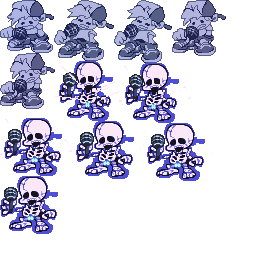
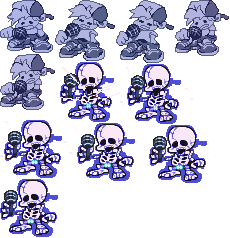
senpai mad and bf weeb fix

diff --git a/src/character/senpaim.c b/src/character/senpaim.c
@@ -1,0 +1,153 @@
+/*
+  This Source Code Form is subject to the terms of the Mozilla Public
+  License, v. 2.0. If a copy of the MPL was not distributed with this
+  file, You can obtain one at http://mozilla.org/MPL/2.0/.
+*/
+
+#include "senpaim.h"
+
+#include "../mem.h"
+#include "../archive.h"
+#include "../stage.h"
+#include "../main.h"
+
+//Dad character structure
+enum
+{
+	SenpaiM_ArcMain_SenpaiM0,
+	SenpaiM_ArcMain_SenpaiM1,
+	
+	SenpaiM_Arc_Max,
+};
+
+typedef struct
+{
+	//Character base structure
+	Character character;
+	
+	//Render data and state
+	IO_Data arc_main;
+	IO_Data arc_ptr[SenpaiM_Arc_Max];
+	
+	Gfx_Tex tex;
+	u8 frame, tex_id;
+} Char_SenpaiM;
+
+//Dad character definitions
+static const CharFrame char_senpaim_frame[] = {
+	{SenpaiM_ArcMain_SenpaiM0, {  0,   0,  66, 112}, { 32, 107}}, //0 idle 1
+	{SenpaiM_ArcMain_SenpaiM0, { 67,   0,  65, 112}, { 31, 107}}, //1 idle 2
+	{SenpaiM_ArcMain_SenpaiM0, {133,   0,  65, 113}, { 31, 108}}, //2 idle 3
+	{SenpaiM_ArcMain_SenpaiM0, {  0, 113,  67, 116}, { 31, 111}}, //3 idle 4
+	{SenpaiM_ArcMain_SenpaiM0, { 71, 113,  67, 115}, { 31, 110}}, //4 idle 5
+	
+	{SenpaiM_ArcMain_SenpaiM1, {  0,   0,  59, 115}, { 33, 110}}, //5 left 1
+	{SenpaiM_ArcMain_SenpaiM1, { 60,   0,  61, 115}, { 35, 110}}, //6 left 2
+	
+	{SenpaiM_ArcMain_SenpaiM1, {122,   0,  63, 107}, { 31, 102}}, //7 down 1
+	{SenpaiM_ArcMain_SenpaiM1, {186,   1,  62, 108}, { 30, 103}}, //8 down 2
+	
+	{SenpaiM_ArcMain_SenpaiM1, {  0, 116,  64, 122}, { 31, 115}}, //9 up 1
+	{SenpaiM_ArcMain_SenpaiM1, { 65, 116,  66, 122}, { 32, 115}}, //10 up 2
+	
+	{SenpaiM_ArcMain_SenpaiM1, {132, 110,  65, 114}, { 27, 109}}, //11 right 1
+	{SenpaiM_ArcMain_SenpaiM0, {139, 114,  64, 114}, { 28, 109}}, //12 right 2
+};
+
+static const Animation char_senpaim_anim[CharAnim_Max] = {
+	{2, (const u8[]){ 0,  1,  2,  3,  4,  0,  1,  2,  3,  4, ASCR_BACK, 1}}, //CharAnim_Idle
+	{2, (const u8[]){ 5,  6, ASCR_BACK, 1}},             //CharAnim_Left
+	{0, (const u8[]){ASCR_CHGANI, CharAnim_Idle}},       //CharAnim_LeftAlt
+	{2, (const u8[]){ 7,  8, ASCR_BACK, 1}},             //CharAnim_Down
+	{0, (const u8[]){ASCR_CHGANI, CharAnim_Idle}},       //CharAnim_DownAlt
+	{2, (const u8[]){ 9, 10, ASCR_BACK, 1}},             //CharAnim_Up
+	{0, (const u8[]){ASCR_CHGANI, CharAnim_Idle}},       //CharAnim_UpAlt
+	{2, (const u8[]){11, 12, ASCR_BACK, 1}},             //CharAnim_Right
+	{0, (const u8[]){ASCR_CHGANI, CharAnim_Idle}},       //CharAnim_RightAlt
+};
+
+//Dad character functions
+void Char_SenpaiM_SetFrame(void *user, u8 frame)
+{
+	Char_SenpaiM *this = (Char_SenpaiM*)user;
+	
+	//Check if this is a new frame
+	if (frame != this->frame)
+	{
+		//Check if new art shall be loaded
+		const CharFrame *cframe = &char_senpaim_frame[this->frame = frame];
+		if (cframe->tex != this->tex_id)
+			Gfx_LoadTex(&this->tex, this->arc_ptr[this->tex_id = cframe->tex], 0);
+	}
+}
+
+void Char_SenpaiM_Tick(Character *character)
+{
+	Char_SenpaiM *this = (Char_SenpaiM*)character;
+	
+	//Perform idle dance
+	Character_PerformIdle(character);
+	
+	//Animate and draw
+	Animatable_Animate(&character->animatable, (void*)this, Char_SenpaiM_SetFrame);
+	Character_Draw(character, &this->tex, &char_senpaim_frame[this->frame]);
+}
+
+void Char_SenpaiM_SetAnim(Character *character, u8 anim)
+{
+	//Set animation
+	Animatable_SetAnim(&character->animatable, anim);
+	Character_CheckStartSing(character);
+}
+
+void Char_SenpaiM_Free(Character *character)
+{
+	Char_SenpaiM *this = (Char_SenpaiM*)character;
+	
+	//Free art
+	Mem_Free(this->arc_main);
+}
+
+Character *Char_SenpaiM_New(fixed_t x, fixed_t y)
+{
+	//Allocate senpaim object
+	Char_SenpaiM *this = Mem_Alloc(sizeof(Char_SenpaiM));
+	if (this == NULL)
+	{
+		sprintf(error_msg, "[Char_SenpaiM_New] Failed to allocate senpaim object");
+		ErrorLock();
+		return NULL;
+	}
+	
+	//Initialize character
+	this->character.tick = Char_SenpaiM_Tick;
+	this->character.set_anim = Char_SenpaiM_SetAnim;
+	this->character.free = Char_SenpaiM_Free;
+	
+	Animatable_Init(&this->character.animatable, char_senpaim_anim);
+	Character_Init((Character*)this, x, y);
+	
+	//Set character stage information
+	this->character.health_i = 8;
+	
+	this->character.focus_x = FIXED_DEC(32,1);
+	this->character.focus_y = FIXED_DEC(-58,1);
+	this->character.focus_zoom = FIXED_DEC(2,1);
+	
+	//Load art
+	this->arc_main = IO_Read("\\CHAR\\SENPAIM.ARC;1");
+	
+	const char **pathp = (const char *[]){
+		"senpai0.tim", //SenpaiM_ArcMain_SenpaiM0
+		"senpai1.tim", //SenpaiM_ArcMain_SenpaiM1
+		NULL
+	};
+	IO_Data *arc_ptr = this->arc_ptr;
+	for (; *pathp != NULL; pathp++)
+		*arc_ptr++ = Archive_Find(this->arc_main, *pathp);
+	
+	//Initialize render state
+	this->tex_id = this->frame = 0xFF;
+	
+	return (Character*)this;
+}

diff --git a/src/character/senpai.c b/src/character/senpai.c
@@ -36,26 +36,26 @@ typedef struct
 //Dad character definitions
 static const CharFrame char_senpai_frame[] = {
 	{Senpai_ArcMain_Senpai0, {  0,   0,  66, 112}, { 32, 107}}, //0 idle 1
-	{Senpai_ArcMain_Senpai0, { 66,   0,  65, 112}, { 31, 107}}, //1 idle 2
-	{Senpai_ArcMain_Senpai0, {131,   0,  65, 113}, { 31, 108}}, //2 idle 3
-	{Senpai_ArcMain_Senpai0, {  0, 112,  67, 116}, { 31, 111}}, //3 idle 4
-	{Senpai_ArcMain_Senpai0, { 71, 112,  67, 115}, { 31, 110}}, //4 idle 5
+	{Senpai_ArcMain_Senpai0, { 67,   0,  65, 112}, { 31, 107}}, //1 idle 2
+	{Senpai_ArcMain_Senpai0, {133,   0,  65, 113}, { 31, 108}}, //2 idle 3
+	{Senpai_ArcMain_Senpai0, {  0, 113,  67, 116}, { 31, 111}}, //3 idle 4
+	{Senpai_ArcMain_Senpai0, { 71, 113,  67, 115}, { 31, 110}}, //4 idle 5
 	
 	{Senpai_ArcMain_Senpai1, {  0,   0,  59, 115}, { 33, 110}}, //5 left 1
-	{Senpai_ArcMain_Senpai1, { 59,   0,  61, 115}, { 35, 110}}, //6 left 2
+	{Senpai_ArcMain_Senpai1, { 60,   0,  61, 115}, { 35, 110}}, //6 left 2
 	
-	{Senpai_ArcMain_Senpai1, {120,   0,  63, 107}, { 31, 102}}, //7 down 1
-	{Senpai_ArcMain_Senpai1, {183,   1,  62, 108}, { 30, 103}}, //8 down 2
+	{Senpai_ArcMain_Senpai1, {122,   0,  63, 107}, { 31, 102}}, //7 down 1
+	{Senpai_ArcMain_Senpai1, {186,   1,  62, 108}, { 30, 103}}, //8 down 2
 	
-	{Senpai_ArcMain_Senpai1, {  0, 115,  64, 122}, { 31, 115}}, //9 up 1
-	{Senpai_ArcMain_Senpai1, { 64, 115,  66, 122}, { 32, 115}}, //10 up 2
+	{Senpai_ArcMain_Senpai1, {  0, 116,  64, 122}, { 31, 115}}, //9 up 1
+	{Senpai_ArcMain_Senpai1, { 65, 116,  66, 122}, { 32, 115}}, //10 up 2
 	
-	{Senpai_ArcMain_Senpai1, {130, 109,  65, 114}, { 28, 109}}, //11 right 1
-	{Senpai_ArcMain_Senpai0, {192, 140,  64, 114}, { 27, 109}}, //12 right 2
+	{Senpai_ArcMain_Senpai1, {132, 110,  65, 114}, { 27, 109}}, //11 right 1
+	{Senpai_ArcMain_Senpai0, {139, 114,  64, 114}, { 28, 109}}, //12 right 2
 };
 
 static const Animation char_senpai_anim[CharAnim_Max] = {
-	{2, (const u8[]){ 0,  1,  2,  3,  4, ASCR_BACK, 1}}, //CharAnim_Idle
+	{2, (const u8[]){ 0,  1,  2,  3,  4,  0,  1,  2,  3,  4, ASCR_BACK, 1}}, //CharAnim_Idle
 	{2, (const u8[]){ 5,  6, ASCR_BACK, 1}},             //CharAnim_Left
 	{0, (const u8[]){ASCR_CHGANI, CharAnim_Idle}},       //CharAnim_LeftAlt
 	{2, (const u8[]){ 7,  8, ASCR_BACK, 1}},             //CharAnim_Down
@@ -86,7 +86,19 @@ void Char_Senpai_Tick(Character *character)
 	Char_Senpai *this = (Char_Senpai*)character;
 	
 	//Perform idle dance
-	Character_PerformIdle(character);
+	if ((stage.flag & STAGE_FLAG_JUST_STEP) && (stage.song_step & 0x7) == 0)
+	{
+		Character_CheckEndSing(character);
+		if ((character->animatable.anim != CharAnim_Left &&
+		     character->animatable.anim != CharAnim_LeftAlt &&
+		     character->animatable.anim != CharAnim_Down &&
+		     character->animatable.anim != CharAnim_DownAlt &&
+		     character->animatable.anim != CharAnim_Up &&
+		     character->animatable.anim != CharAnim_UpAlt &&
+		     character->animatable.anim != CharAnim_Right &&
+		     character->animatable.anim != CharAnim_RightAlt))
+			character->set_anim(character, CharAnim_Idle);
+	}
 	
 	//Animate and draw
 	Animatable_Animate(&character->animatable, (void*)this, Char_Senpai_SetFrame);
@@ -96,8 +108,24 @@ void Char_Senpai_Tick(Character *character)
 void Char_Senpai_SetAnim(Character *character, u8 anim)
 {
 	//Set animation
+	u8 prev_anim = character->animatable.anim;
 	Animatable_SetAnim(&character->animatable, anim);
-	Character_CheckStartSing(character);
+	
+	//Update sing end if singing animation
+	if (character->animatable.anim == CharAnim_Left ||
+	    character->animatable.anim == CharAnim_LeftAlt ||
+	    character->animatable.anim == CharAnim_Down ||
+	    character->animatable.anim == CharAnim_DownAlt ||
+	    character->animatable.anim == CharAnim_Up ||
+	    character->animatable.anim == CharAnim_UpAlt ||
+	    character->animatable.anim == CharAnim_Right ||
+	    character->animatable.anim == CharAnim_RightAlt)
+	{
+		if (prev_anim != anim)
+			character->sing_end = stage.note_scroll + (FIXED_DEC(12,1) << 1); //2 steps
+		else
+			character->sing_end = stage.note_scroll + FIXED_DEC(12,1); //1 step
+	}
 }
 
 void Char_Senpai_Free(Character *character)

diff --git a/src/character/bfweeb.c b/src/character/bfweeb.c
@@ -74,22 +74,22 @@ typedef struct
 //Boyfriend Weeb player definitions
 static const CharFrame char_bfweeb_frame[] = {
 	{BFWeeb_ArcMain_Weeb0, {  0,   0,  60,  55}, { 35,  52}}, //0 idle 1
-	{BFWeeb_ArcMain_Weeb0, { 60,   0,  61,  56}, { 35,  53}}, //1 idle 2
-	{BFWeeb_ArcMain_Weeb0, {121,   0,  59,  58}, { 33,  55}}, //2 idle 3
-	{BFWeeb_ArcMain_Weeb0, {180,   0,  58,  59}, { 31,  56}}, //3 idle 4
-	{BFWeeb_ArcMain_Weeb0, {  0,  55,  58,  58}, { 32,  55}}, //4 idle 5
+	{BFWeeb_ArcMain_Weeb0, { 61,   0,  61,  56}, { 35,  53}}, //1 idle 2
+	{BFWeeb_ArcMain_Weeb0, {123,   0,  59,  58}, { 33,  55}}, //2 idle 3
+	{BFWeeb_ArcMain_Weeb0, {183,   0,  58,  59}, { 31,  56}}, //3 idle 4
+	{BFWeeb_ArcMain_Weeb0, {  0,  56,  58,  58}, { 32,  55}}, //4 idle 5
 	
-	{BFWeeb_ArcMain_Weeb0, { 58,  56,  54,  57}, { 34,  53}}, //5 left 1
-	{BFWeeb_ArcMain_Weeb0, {112,  58,  55,  57}, { 33,  53}}, //6 left 2
+	{BFWeeb_ArcMain_Weeb0, { 59,  57,  54,  57}, { 34,  53}}, //5 left 1
+	{BFWeeb_ArcMain_Weeb0, {114,  59,  55,  57}, { 33,  53}}, //6 left 2
 	
-	{BFWeeb_ArcMain_Weeb0, {167,  59,  55,  52}, { 31,  48}}, //7 down 1
-	{BFWeeb_ArcMain_Weeb0, {  0, 113,  54,  53}, { 31,  49}}, //8 down 2
+	{BFWeeb_ArcMain_Weeb0, {170,  60,  55,  52}, { 31,  48}}, //7 down 1
+	{BFWeeb_ArcMain_Weeb0, {  0, 115,  54,  53}, { 31,  49}}, //8 down 2
 	
-	{BFWeeb_ArcMain_Weeb0, { 54, 114,  57,  64}, { 26,  60}}, //9 up 1
-	{BFWeeb_ArcMain_Weeb0, {111, 115,  58,  63}, { 27,  59}}, //10 up 2
+	{BFWeeb_ArcMain_Weeb0, { 55, 116,  57,  64}, { 26,  60}}, //9 up 1
+	{BFWeeb_ArcMain_Weeb0, {113, 117,  58,  63}, { 27,  59}}, //10 up 2
 	
-	{BFWeeb_ArcMain_Weeb0, {169, 111,  57,  56}, { 22,  52}}, //11 right 1
-	{BFWeeb_ArcMain_Weeb0, {  0, 166,  55,  56}, { 22,  52}}, //12 right 2
+	{BFWeeb_ArcMain_Weeb0, {173, 113,  57,  56}, { 22,  52}}, //11 right 1
+	{BFWeeb_ArcMain_Weeb0, {  0, 169,  55,  56}, { 22,  52}}, //12 right 2
 };
 
 static const Animation char_bfweeb_anim[PlayerAnim_Max] = {

diff --git a/src/stagedef_disc1.h b/src/stagedef_disc1.h
@@ -293,9 +293,9 @@
 	},
 	{ //StageId_6_2 (Roses)
 		//Characters
-		{Char_BFWeeb_New,  FIXED_DEC(52,1),  FIXED_DEC(50,1)},
-		{Char_Senpai_New, FIXED_DEC(-60,1),  FIXED_DEC(50,1)},
-		{Char_BFWeeb_New,   FIXED_DEC(0,1),  FIXED_DEC(-8,1)},
+		{Char_BFWeeb_New,   FIXED_DEC(52,1),  FIXED_DEC(50,1)},
+		{Char_SenpaiM_New, FIXED_DEC(-60,1),  FIXED_DEC(50,1)},
+		{Char_BFWeeb_New,    FIXED_DEC(0,1),  FIXED_DEC(-8,1)},
 		
 		//Stage background
 		Back_Dummy_New,

diff --git a/src/character.c b/src/character.c
@@ -75,7 +75,7 @@ void Character_PerformIdle(Character *this)
 	if (stage.flag & STAGE_FLAG_JUST_STEP)
 	{
 		if (Animatable_Ended(&this->animatable) &&
-			(this->animatable.anim != CharAnim_Left &&
+		    (this->animatable.anim != CharAnim_Left &&
 		     this->animatable.anim != CharAnim_LeftAlt &&
 		     this->animatable.anim != CharAnim_Down &&
 		     this->animatable.anim != CharAnim_DownAlt &&

diff --git a/src/character/senpaim.h b/src/character/senpaim.h
@@ -1,0 +1,15 @@
+/*
+  This Source Code Form is subject to the terms of the Mozilla Public
+  License, v. 2.0. If a copy of the MPL was not distributed with this
+  file, You can obtain one at http://mozilla.org/MPL/2.0/.
+*/
+
+#ifndef _SENPAIM_H
+#define _SENPAIM_H
+
+#include "../character.h"
+
+//SenpaiM character functions
+Character *Char_SenpaiM_New(fixed_t x, fixed_t y);
+
+#endif

diff --git a/src/stage.c b/src/stage.c
@@ -52,6 +52,7 @@ static const fixed_t note_y = FIXED_DEC(32 - SCREEN_HEIGHT2, 1);
 #include "character/mom.h"
 #include "character/xmasp.h"
 #include "character/senpai.h"
+#include "character/senpaim.h"
 #include "character/tank.h"
 #include "character/gf.h"
 #include "character/clucky.h"
